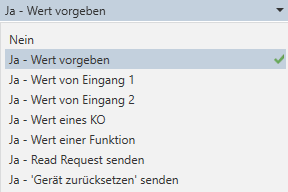
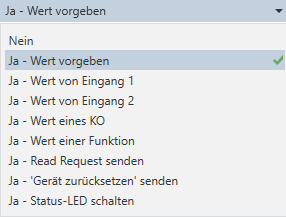
Release 4.0:
Update documentation

Changed region(s): [[0.0, 0.1562, 1.0, 0.9688], [0.0, 0.0312, 1.0, 0.125], [0.951, 0.0312, 1.0, 0.0625]]

diff --git a/doc/Applikationsbeschreibung-Logik.md b/doc/Applikationsbeschreibung-Logik.md
@@ -83,6 +83,14 @@ Eine Übersicht über die verfügbaren Konfigurationsseiten und Links zur jeweil
 
 Im folgenden werden Änderungen an dem Dokument erfasst, damit man nicht immer das Gesamtdokument lesen muss, um Neuerungen zu erfahren.
 
+13.02.2026: Firmware 4.0.0, Applikation 4.0:
+
+* WICHTIG: Die frühere Steuerung von Buzzer und LED wurde aus dem Logikmodul entfernt - zugunsten der neuen Module LED-Status und Buzzer/Vibration. Dies kann zu manuellen Nacharbeiten nach einem Update des Gerätes notwendig machen (siehe [Besonderheiten ab der Version 4.0 bezüglich Update und Konfigurationstransfer](#besonderheiten-ab-der-version-40-bezüglich-update-und-konfigurationstransfer)).
+
+* NEU: Der Status von LEDs kann in der Logik als interner Eingang dienen
+* NEU: Das Logikmodul kann jetzt den Ausgang auf Statuskanäle legen und so LEDs steuern
+
+
 24.08.2025: Firmware 3.7.2, Applikation 3.7:
 
 * FIX: DPT2 am Ausgang sendet wieder korrekte Werte, ist wohl in der Vergangenheit durch eine Änderung am KNX-Stack kaputt gegangen und wurde erst jetzt gemerkt.
@@ -426,29 +434,45 @@ Weitere Features:
 * Speichern von Werten über einen Stromausfall hinweg 
 * Senden von gespeicherten Werten nach einem Neustart
 
-### **OpenKNX**
-
-Dies ist eine Seite mit allgemeinen Parametern, die unter [Applikationsbeschreibung-Common](https://github.com/OpenKNX/OGM-Common/blob/v1/doc/Applikationsbeschreibung-Common.md) beschrieben sind. 
-
-### **Netzwerk**
-
-Die Netzwerkkonfiguration erlaubt IP-Spezifische Einstellungen für KNX-IP-Geräte. Die Logikmodul-Applikation kann sowohl für KNX-TP- wie auch für KNX-IP-Geräte verwendet werden. 
-
->Wichtig: Die Netzwerkeinstellungen sind zwar immer vorhanden, wirken sich aber nur bei IP-Geräte aus. Für KNX-TP-Geräte kann diese Seite komplett ignoriert werden.
-
-Die Funktionen vom Netzwerk-Modul sind unter [Applikationsbeschreibung-Netzwerk](https://github.com/OpenKNX/OFM-Network/blob/v1/doc/Applikationsbeschreibung-Netzwerk.md) beschrieben.
 
 
-### **Konfigurationstransfer**
+## **Besonderheiten ab der Version 4.0 bezüglich Update und Konfigurationstransfer**
 
-Der Konfigurationstransfer erlaubt einen
+Die Version 4.0 des Logikmoduls enthält wenig neue Features - nur die Anpassung an die generische Behandlung von Status-LEDs bei unterschiedlicher Gerätehardware. In diesem Rahmen ist aber ein größerer Umbau von internen Strukturen passiert - vor allem im Ausgangskonverter. Es sind auch Teile weggefallen, die eigentlich nicht in das Logikmodul gehörten und die nur aus historischen Gründen noch im Logikmodul enthalten waren.
 
-* Export von Konfigurationen von OpenKNX-Modulen und deren Kanälen
-* Import von Konfigurationen von OpenKNX-Modulen und deren Kanälen
-* Kopieren der Konfiguration von einem OpenKNX-Modulkanal auf einen anderen
-* Zurücksetzen der Konfiguration eines OpenKNX-Modulkanals auf Standardwerte
+### **Weggefallene Funktionen**
 
-Die Funktionen vom Konfigurationstranfer-Modul sind unter [Applikationsbeschreibung-ConfigTransfer](https://github.com/OpenKNX/OFM-ConfigTransfer/blob/v1/doc/Applikationsbeschreibung-ConfigTransfer.md) beschrieben.
+Im klassischen Sensormodul von SmartMF konnte man über einen Logikkanal den Buzzer vom Sensormodul schalten. Ferner konnte man - sofern man die entsprechende Zusatzhardware bestellt hatte - auch eine RGB-LED mit dem Logikmodul schalten. Beide Optionen waren bei anderen Hardwarevarianten nicht vorhanden. Beim Sensormodul sind sie nun entfallen und wurden durch eine passende Info LED Implementierung und das Buzzer/Vibration Modul ersetzt.
+
+### **Einfluss auf das Update-Verhalten der ETS**
+
+Falls man ein Sensormodul mit einem Buzzer besitzt und über das Logikmodul den Buzzer genutzt hat, wird nach dem Update die Buzzer-Funktion nicht mehr zur Verfügung stehen. Der Ausgang eines Buzzer-Logikkanals wird beim Update zu einem normalen "Werte senden" - EIN/AUS Ausgang. Diesen Ausgang kann man als Nacharbeit mit dem Eingang des neuen Buzzer/Vibration Moduls (siehe [Applikationsbeschreibung Buzzer/Vibration](https://github.com/OpenKNX/OFM-Feedback/blob/v1/doc/Applikationsbeschreibung-Feedback.md)) verbinden und bekommt so die Buzzer-Funktionalität wieder.
+
+Das Logikmodul läuft als Teil von nahezu allen OpenKNX-Applikationen auf vielerlei Hardware, derzeit besitzt nur das Sensormodul von SmartMF einen Buzzer. Für das Sensormodul wird die RaumController-Applikation genutzt. Manuelle Nacharbeiten sind nur nötig, wenn der Buzzer auf dem Sensormodul wirklich genutzt wurde, das sollten weniger als 10% aller genutzten Logikmodul-Instanzen sein.
+
+Falls jemand die Sensormodul-Variante mit einer RGB-LED besitzt, so soll er mich bitte über eine PM im KNX-User-Forum kontaktieren, damit wir hier das Update besprechen können.
+
+### **Verhalten vom Konfigurationstransfer**
+
+Im neuen Logikmodul 4.0 (das in den letzten 6 Jahren mehr oder minder nur erweitert worden ist) wurde etwas "aufgeräumt", was dazu geführt hat, dass auch Parameter gelöscht wurden, die nicht mehr benötigt werden und teilweise früher zu Problemen geführt haben. Das führt aber dazu, dass der Konfigurationstransfer jetzt mit unerwarteten Meldungen reagiert.
+
+#### **Transfer von Logikkanälen Version kleiner 4.0 auf Versionen größer gleich 4.0 (alt auf neu)**
+
+Da die neue Logik weder LEDs noch Buzzer steuern kann, funktionieren Transfers von Kanälen, die als Quelle eine Buzzer- oder LED-Steuerung machen, nicht ohne hinterher einen manuellen Eingriff vorzunehmen. Man muss den Ausgang nach einem solchen Transfer auf jeden Fall anpassen.
+
+Alle anderen Logikkanäle funktionieren ohne weiteres, allerdings werden im Transfer-String mehr Parameter transportiert, als im Ziel vorhanden sind (im Ziel wurde ja aufgeräumt). Deswegen bringt der Konfigurationstransfer Warnungen. Es empfiehlt sich natürlich immer, solche Warnungen zu beachten und in diesem Fall die Ausgänge im Ziel nochmal mit den Ausgängen der Quelle zu verifizieren, aber bei allen Tests waren diese gleich.
+
+Der Transport von Basiseinstellungen kann auch Warnungen liefern, funktioniert aber ebenso problemlos.
+
+#### **Transfer von Logikkanälen Version größer gleich 4.0 auf Versionen kleiner 4.0 (neu auf alt)**
+
+Grundsätzlich funktionieren die Transfers in diese Richtung nicht mehr ohne manuelle Nacharbeiten. 
+
+> ACHTUNG: Den Transport von Basiseinstellungen sollte gar nicht versucht werden! Dies kann bei der alten Logikmodul-Version dazu führen, dass alle Einstellungen zu allen Ausgängen aller Logikkanäle zurückgesetzt werden. 
+
+Einzelne Logikkanäle können transferiert werden, allerdings kommen die Einstellungen vom Ausgang in 95% der Fälle nicht an. Diese müssen immer manuell mit der Quelle abgeglichen werden.
+Ironischerweise meldet der Konfigurationstransfer hier in allen getesteten Fällen ein OK ohne Warnungen oder Fehler.
+
 
 ## **Allgemein**
 
@@ -517,43 +541,6 @@ Durch Auswahlfelder kann bestimmt werden, ob dieser Feiertag bei der Feiertagsin
 Es ist nicht möglich, eigene Feiertage in diese Liste aufzunehmen. Deswegen enthält die Liste auch eher unübliche Feiertage wie Rosenmontag oder 1 Advent, da diese Tage beweglich sind und somit berechnet werden müssen.
 
 Man kann aber eine (oder mehrere) Jahresschaltuhren dafür verwenden, weitere Feiertage zu definieren und das Ergebnis dieser Zeitschaltuhr auf die Feiertags-GA zu senden.
-
-### **Installierte Hardware**
-
-Erscheint nur für das Logikmodul als eigenständige Applikation.
-
-Die Firmware im Logikmodul unterstützt eine Vielzahl an Hardwarevarianten. Um nicht für jede Hardwarekombination ein eigenes Applikationsprogramm zu benötigen, kann über die folgenden Felder die Hardwareausstattung des Logikmoduls bestimmt werden.
-
-Die Angaben in diesem Teil müssen der vorhandenen Hardware entsprechen, da sie das Verhalten der Applikation und auch der Firmware bestimmen. Das Applikationsprogramm hat keine Möglichkeit, die Korrektheit der Angaben zu überprüfen.
-
-Falsche Angaben können zu falschen Konfigurationen der Applikation und somit zum Fehlverhalten des Logikmoduls führen.
-
-<!-- DOC -->
-#### **Akustischer Signalgeber vorhanden (Buzzer)?**
-
-Das Logikmodul unterstützt auch die Ausgabe von Pieptönen mittels eines Buzzers. Mit einem Haken in diesem Feld wird angegeben, ob ein Buzzer installiert ist.
-
-Gleichzeitig wird ein Kommunikationsobjekt freigeschaltet, mit dem man die Soundausgabe sperren kann. Damit kann man verhindern, dass z.B. nachts Töne ausgegeben werden.
-
-<!-- DOC -->
-#### **Optischer Signalgeber vorhanden (RGB-LED)?**
-
-Das Logikmodul unterstützt auch die Ausgabe eines Lichtsignals mittels einer RGB-LED. Mit einem Haken in diesem Feld wird angegeben, ob eine RGB-LED installiert ist.
-
-Gleichzeitig wird ein Kommunikationsobjekt freigeschaltet, mit dem man die Lichtausgabe sperren kann. Damit kann man verhindern, dass z.B. nachts die LED leuchtet. Oder man schaltet die LED nur bei Präsenz ein und schont damit die Leuchtkraft der LED.
-
-<!-- DOC HelpContext="Loetpad-A--B--C-entspricht" -->
-### **RGB-LED**
-
-Da RGB-LED unterschiedliche Pin-Belegungen für die Farben Rot, Grün und Blau haben, kann es passieren, dass man nach dem anlöten der LED feststellt, dass man falsche Farben präsentiert bekommt.
-
-An dieser Stelle kann man die Pinbelegung für Rot/Grün/Blau in verschiedenen Permutationen einstellen und so softwareseitig mögliche Belegungsprobleme beseitigen.
-
-<!-- DOC -->
-### **Buzzer**
-
-Das Logikmodul unterstützt 3 verschiedene Töne bzw. Lautstärken für den Buzzer.
-In den Eingabefeldern kann man die Tonfrequenzen für die einzelnen Töne für Laut/Mittel und Leise angeben. Über die Tonhöhe werden indirekt auch die Lautstärken gesteuert.
 
 ## **Benutzerformeln**
 
@@ -861,7 +848,6 @@ Die hier für jeden Kanal zur Verfügung stehenden Möglichkeiten der Beeinfluss
 * Konvertiere ein DPT in einen anderen
 * Verzögere ein Signal
 * Zeitschaltuhr-Funktionen
-* tbc
 
 
 
@@ -2317,30 +2303,11 @@ Bei einem EIN-Signal wird kein Wert gesendet, sondern die ETS-Funktion "Gerät z
 
 In einem weiteren Feld kann die PA ausgegeben werden.
 
-#### **Ja - Tonwiedergabe (Buzzer)**
+#### **Ja - Status-LED schalten**
 
-Wird nur angeboten, wenn ein Buzzer vorhanden ist.
+Bei einem EIN-Signal wird kein Wert gesendet, sondern der angegebene Statuskanal angesprochen.
 
-Bei einem EIN-Signal wird kein Wert gesendet, sondern der interne Buzzer zur Tonwiedergabe angesprochen. In einem weiteren Feld wird angegeben, in welcher Lautstärke die Tonwiedergabe gestartet oder ob sie gestoppt wird.
-
-Falls der Buzzer gerade über das Kommunikationsobjekt 19 gesperrt ist, wird kein Ton ausgegeben und ein eventueller laufender Ton abgeschaltet.
-
-Falls dieser Kanal als Alarmkanal gekennzeichnet ist, wird ein Ton unabhängig von der Sperre ausgegeben.
-
-<!-- DOC Skip="1" -->
-<kbd>![Tonwiedergabe](pics/Tonwiedergabe.PNG)</kbd>
-
-#### **Ja - RGB-LED schalten**
-
-Wird nur angeboten, wenn eine RGB-LED vorhanden ist.
-
-Bei einem EIN-Signal wird kein Wert gesendet, sondern die interne RBG-LED angesprochen. So kann man eine optische Rückmeldung erreichen.
-
-In einem weiteren Feld wird die Farbe eingestellt. Ist die Farbe Schwarz eingestellt, wir die LED ausgeschaltet.
-
-Falls die LED gerade über das Kommunikationsobjekt 18 gesperrt ist, wird die LED nicht eingeschaltet und falls sie an ist, wird sie abgeschaltet.
-
-Falls dieser Kanal als Alarmkanal gekennzeichnet ist, wird die LED unabhängig von der Sperre eingeschaltet.
+In weiteren Feldern wird der Status-LED Kanal angegeben und der darauf auszugebende LED-Effekt.
 
 <!-- DOC -->
 ### **Wert für EIN senden als**
@@ -2390,16 +2357,20 @@ Hier wird angegeben, über welchen Logikstatus-Kanal die LED angesprochen wird.
 
 <kbd>![Led Farbe festlegen](pics/LedColor.PNG)</kbd>
 
-Das Feld erscheint nur, wenn für "Wert für EIN senden" ein "Ja - RGB-LED schalten" ausgewählt wurde.
+Das Feld erscheint nur, wenn für "Wert für EIN senden" ein "Ja - Status-LED schalten" ausgewählt wurde.
 
 Hier wird die Farbe der LED bestimmt, in der sie leuchten soll. Wird die Farbe Schwarz gewählt (#000000), geht die LED aus. Für die Auswahl der Farbe kann auch ein Farbauswahldialog verwendet werden.
-
-Diese Option kann nur funktionieren, wenn das Gerät, auf dem die Applikation Logik läuft, auch eine RGB-LED verbaut hat.
 
 <!-- DOC -->
 #### **Status-LED Effekt**
 
-Wähle den Effekt.
+Hier kann angegeben werden, wie sich die LED verhalten soll. 
+
+* **Aus** - Die LED wird ausgeschaltet
+* **Ein** - Die LED wird in der angegebenen Farbe eingeschaltet
+* **Blinken** - Die LED blinkt in der angegebenen Farbe und Dauer
+* **Pulsieren** - Die LED pulsiert in der angegebenen Farbe und Dauer
+* **Aufblitzen** - Die LED blitzt kurz in der angegebenen Farbe auf
 
 <!-- DOC -->
 #### **Status-LED Effektdauer**
@@ -2493,27 +2464,11 @@ Bei einem AUS-Signal wird kein Wert auf die GA am Ausgang gesendet sondern ein L
 
 Bei einem AUS-Signal wird kein Wert gesendet, sondern die ETS-Funktion "Gerät zurücksetzen" an eine bestimmte PA geschickt. So kann man bestimmte Geräte überwachen und bei Bedarf zurücksetzen, ohne die ETS starten zu müssen.
 
-#### **Ja - Tonwiedergabe (Buzzer)**
+#### **Ja - Status-LED schalten**
 
-Wird nur angeboten, wenn ein Buzzer vorhanden ist.
+Bei einem AUS-Signal wird kein Wert gesendet, sondern der angegebene Statuskanal angesprochen.
 
-Bei einem AUS-Signal wird kein Wert gesendet, sondern der interne Buzzer zur Tonwiedergabe angesprochen. In einem weiteren Feld wird angegeben, ob die Tonwiedergabe gestartet oder gestoppt wird.
-
-Falls der Buzzer gerade über das Kommunikationsobjekt 19 gesperrt ist, wird kein Ton ausgegeben und ein eventueller laufender Ton abgeschaltet.
-
-Falls dieser Kanal als Alarmkanal gekennzeichnet ist, wird ein Ton unabhängig von der Sperre ausgegeben.
-
-#### **Ja - RGB-LED schalten**
-
-Wird nur angeboten, wenn eine RGB-LED vorhanden ist.
-
-Bei einem AUS-Signal wird kein Wert gesendet, sondern die interne RBG-LED angesprochen. So kann man eine optische Rückmeldung erreichen.
-
-In einem weiteren Feld wird die Farbe eingestellt. Ist die Farbe Schwarz eingestellt, wir die LED ausgeschaltet.
-
-Falls die LED gerade über das Kommunikationsobjekt 18 gesperrt ist, wird die LED nicht eingeschaltet und falls sie an ist, wird sie abgeschaltet.
-
-Falls dieser Kanal als Alarmkanal gekennzeichnet ist, wird die LED unabhängig von der Sperre eingeschaltet.
+In weiteren Feldern wird der Status-LED Kanal angegeben und der darauf auszugebende LED-Effekt.
 
 <!-- DOC -->
 ### **Wert für AUS senden als**
@@ -2544,13 +2499,34 @@ Hier wird eine physikalische Adresse in der üblichen Punkt-Notation erwartet. D
 
 Dies entspricht genau der Funktion "Gerät zurücksetzen" in der ETS.
 
-### **LED-Farbe festlegen (Schwarz=aus)**
+### **Status-LED Kanal**
 
-Das Feld erscheint nur, wenn für "Wert für AUS senden" ein "Ja - RGB-LED schalten" ausgewählt wurde.
+Hier wird angegeben, über welchen Logikstatus-Kanal die LED angesprochen wird.
+
+<!-- DOC -->
+#### **Status-LED Farbe**
+
+<kbd>![Led Farbe festlegen](pics/LedColor.PNG)</kbd>
+
+Das Feld erscheint nur, wenn für "Wert für EIN senden" ein "Ja - Status-LED schalten" ausgewählt wurde.
 
 Hier wird die Farbe der LED bestimmt, in der sie leuchten soll. Wird die Farbe Schwarz gewählt (#000000), geht die LED aus. Für die Auswahl der Farbe kann auch ein Farbauswahldialog verwendet werden.
 
-Diese Option kann nur funktionieren, wenn das Gerät, auf dem die Applikation Logik läuft, auch eine RGB-LED verbaut hat.
+<!-- DOC -->
+#### **Status-LED Effekt**
+
+Hier kann angegeben werden, wie sich die LED verhalten soll. 
+
+* **Aus** - Die LED wird ausgeschaltet
+* **Ein** - Die LED wird in der angegebenen Farbe eingeschaltet
+* **Blinken** - Die LED blinkt in der angegebenen Farbe und Dauer
+* **Pulsieren** - Die LED pulsiert in der angegebenen Farbe und Dauer
+* **Aufblitzen** - Die LED blitzt kurz in der angegebenen Farbe auf
+
+<!-- DOC -->
+#### **Status-LED Effektdauer**
+
+Dauer des Effekts in ms.
 
 <!-- DOC -->
 ### **Wert für AUS senden (als 3 Byte RGB)**

diff --git a/src/Baggages/Help_de/LOG-Wert-fuer-AUS-senden.md b/src/Baggages/Help_de/LOG-Wert-fuer-AUS-senden.md
@@ -37,25 +37,9 @@ Bei einem AUS-Signal wird kein Wert auf die GA am Ausgang gesendet sondern ein L
 
 Bei einem AUS-Signal wird kein Wert gesendet, sondern die ETS-Funktion "Gerät zurücksetzen" an eine bestimmte PA geschickt. So kann man bestimmte Geräte überwachen und bei Bedarf zurücksetzen, ohne die ETS starten zu müssen.
 
-#### Ja - Tonwiedergabe (Buzzer)
+#### Ja - Status-LED schalten
 
-Wird nur angeboten, wenn ein Buzzer vorhanden ist.
+Bei einem AUS-Signal wird kein Wert gesendet, sondern der angegebene Statuskanal angesprochen.
 
-Bei einem AUS-Signal wird kein Wert gesendet, sondern der interne Buzzer zur Tonwiedergabe angesprochen. In einem weiteren Feld wird angegeben, ob die Tonwiedergabe gestartet oder gestoppt wird.
-
-Falls der Buzzer gerade über das Kommunikationsobjekt 19 gesperrt ist, wird kein Ton ausgegeben und ein eventueller laufender Ton abgeschaltet.
-
-Falls dieser Kanal als Alarmkanal gekennzeichnet ist, wird ein Ton unabhängig von der Sperre ausgegeben.
-
-#### Ja - RGB-LED schalten
-
-Wird nur angeboten, wenn eine RGB-LED vorhanden ist.
-
-Bei einem AUS-Signal wird kein Wert gesendet, sondern die interne RBG-LED angesprochen. So kann man eine optische Rückmeldung erreichen.
-
-In einem weiteren Feld wird die Farbe eingestellt. Ist die Farbe Schwarz eingestellt, wir die LED ausgeschaltet.
-
-Falls die LED gerade über das Kommunikationsobjekt 18 gesperrt ist, wird die LED nicht eingeschaltet und falls sie an ist, wird sie abgeschaltet.
-
-Falls dieser Kanal als Alarmkanal gekennzeichnet ist, wird die LED unabhängig von der Sperre eingeschaltet.
+In weiteren Feldern wird der Status-LED Kanal angegeben und der darauf auszugebende LED-Effekt.
 

diff --git a/src/Baggages/Help_de/LOG-Wert-fuer-EIN-senden.md b/src/Baggages/Help_de/LOG-Wert-fuer-EIN-senden.md
@@ -40,26 +40,9 @@ Bei einem EIN-Signal wird kein Wert gesendet, sondern die ETS-Funktion "Gerät z
 
 In einem weiteren Feld kann die PA ausgegeben werden.
 
-#### Ja - Tonwiedergabe (Buzzer)
+#### Ja - Status-LED schalten
 
-Wird nur angeboten, wenn ein Buzzer vorhanden ist.
+Bei einem EIN-Signal wird kein Wert gesendet, sondern der angegebene Statuskanal angesprochen.
 
-Bei einem EIN-Signal wird kein Wert gesendet, sondern der interne Buzzer zur Tonwiedergabe angesprochen. In einem weiteren Feld wird angegeben, in welcher Lautstärke die Tonwiedergabe gestartet oder ob sie gestoppt wird.
-
-Falls der Buzzer gerade über das Kommunikationsobjekt 19 gesperrt ist, wird kein Ton ausgegeben und ein eventueller laufender Ton abgeschaltet.
-
-Falls dieser Kanal als Alarmkanal gekennzeichnet ist, wird ein Ton unabhängig von der Sperre ausgegeben.
-
-
-#### Ja - RGB-LED schalten
-
-Wird nur angeboten, wenn eine RGB-LED vorhanden ist.
-
-Bei einem EIN-Signal wird kein Wert gesendet, sondern die interne RBG-LED angesprochen. So kann man eine optische Rückmeldung erreichen.
-
-In einem weiteren Feld wird die Farbe eingestellt. Ist die Farbe Schwarz eingestellt, wir die LED ausgeschaltet.
-
-Falls die LED gerade über das Kommunikationsobjekt 18 gesperrt ist, wird die LED nicht eingeschaltet und falls sie an ist, wird sie abgeschaltet.
-
-Falls dieser Kanal als Alarmkanal gekennzeichnet ist, wird die LED unabhängig von der Sperre eingeschaltet.
+In weiteren Feldern wird der Status-LED Kanal angegeben und der darauf auszugebende LED-Effekt.
 

diff --git a/src/Baggages/Help_de/LOG-Status-LED-Farbe.md b/src/Baggages/Help_de/LOG-Status-LED-Farbe.md
@@ -2,9 +2,7 @@
 
 <kbd>!Led Farbe festlegen</kbd>
 
-Das Feld erscheint nur, wenn für "Wert für EIN senden" ein "Ja - RGB-LED schalten" ausgewählt wurde.
+Das Feld erscheint nur, wenn für "Wert für EIN senden" ein "Ja - Status-LED schalten" ausgewählt wurde.
 
 Hier wird die Farbe der LED bestimmt, in der sie leuchten soll. Wird die Farbe Schwarz gewählt (#000000), geht die LED aus. Für die Auswahl der Farbe kann auch ein Farbauswahldialog verwendet werden.
-
-Diese Option kann nur funktionieren, wenn das Gerät, auf dem die Applikation Logik läuft, auch eine RGB-LED verbaut hat.
 

diff --git a/src/Baggages/Help_de/LOG-Status-LED-Effekt.md b/src/Baggages/Help_de/LOG-Status-LED-Effekt.md
@@ -1,4 +1,10 @@
 ### Status-LED Effekt
 
-Wähle den Effekt.
+Hier kann angegeben werden, wie sich die LED verhalten soll. 
+
+* **Aus** - Die LED wird ausgeschaltet
+* **Ein** - Die LED wird in der angegebenen Farbe eingeschaltet
+* **Blinken** - Die LED blinkt in der angegebenen Farbe und Dauer
+* **Pulsieren** - Die LED pulsiert in der angegebenen Farbe und Dauer
+* **Aufblitzen** - Die LED blitzt kurz in der angegebenen Farbe auf
 

diff --git a/src/Baggages/Help_de/LOG-Dokumentation.md b/src/Baggages/Help_de/LOG-Dokumentation.md
@@ -104,3 +104,5 @@ Weitere Features:
 * Speichern von Werten über einen Stromausfall hinweg 
 * Senden von gespeicherten Werten nach einem Neustart
 
+
+
